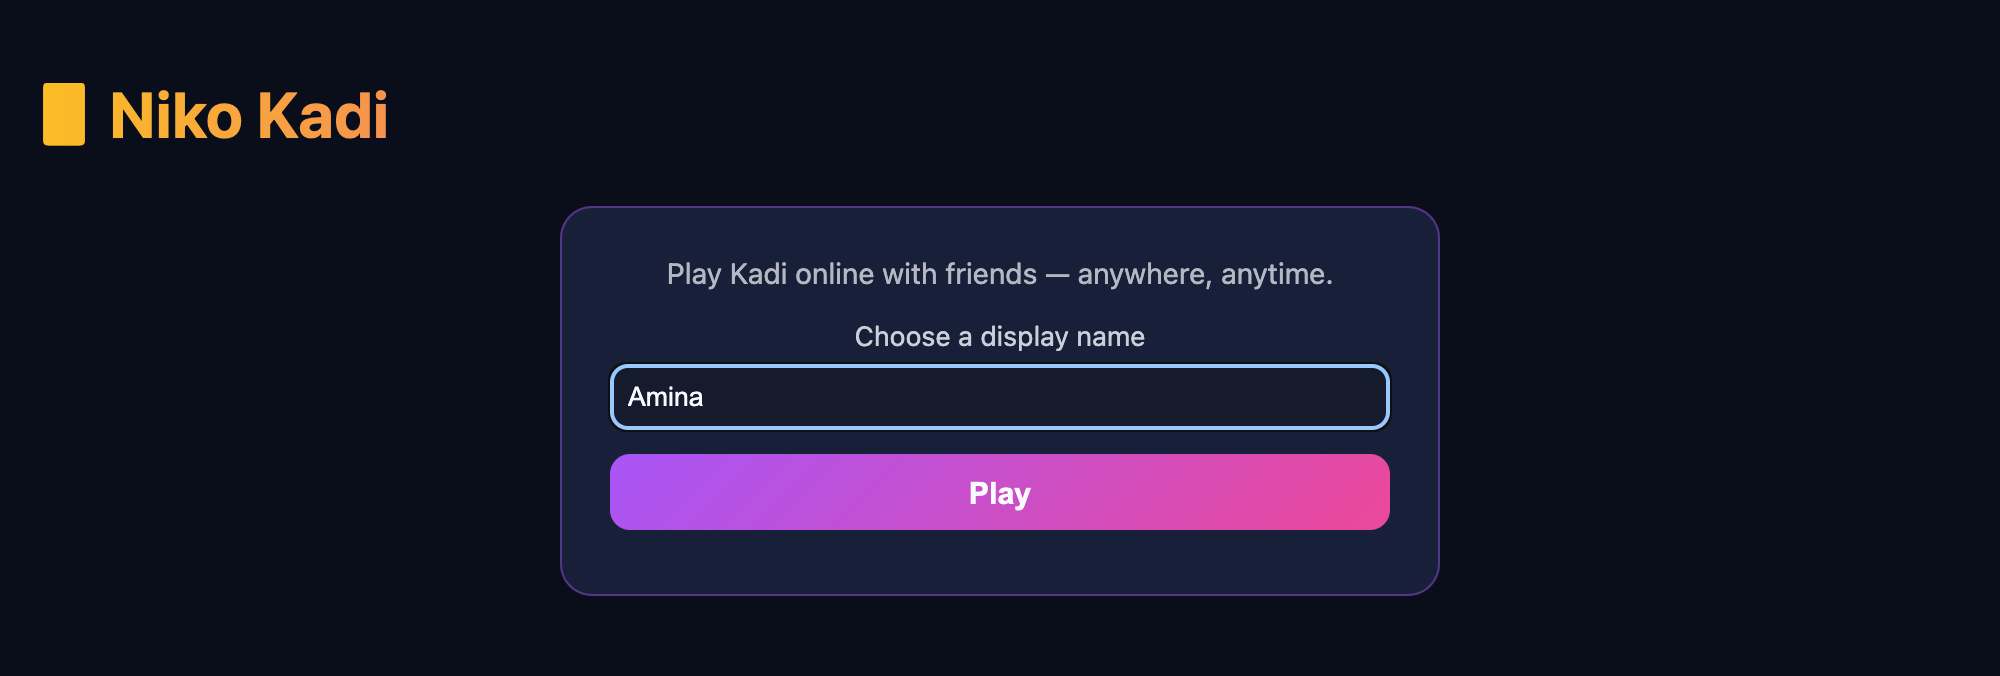
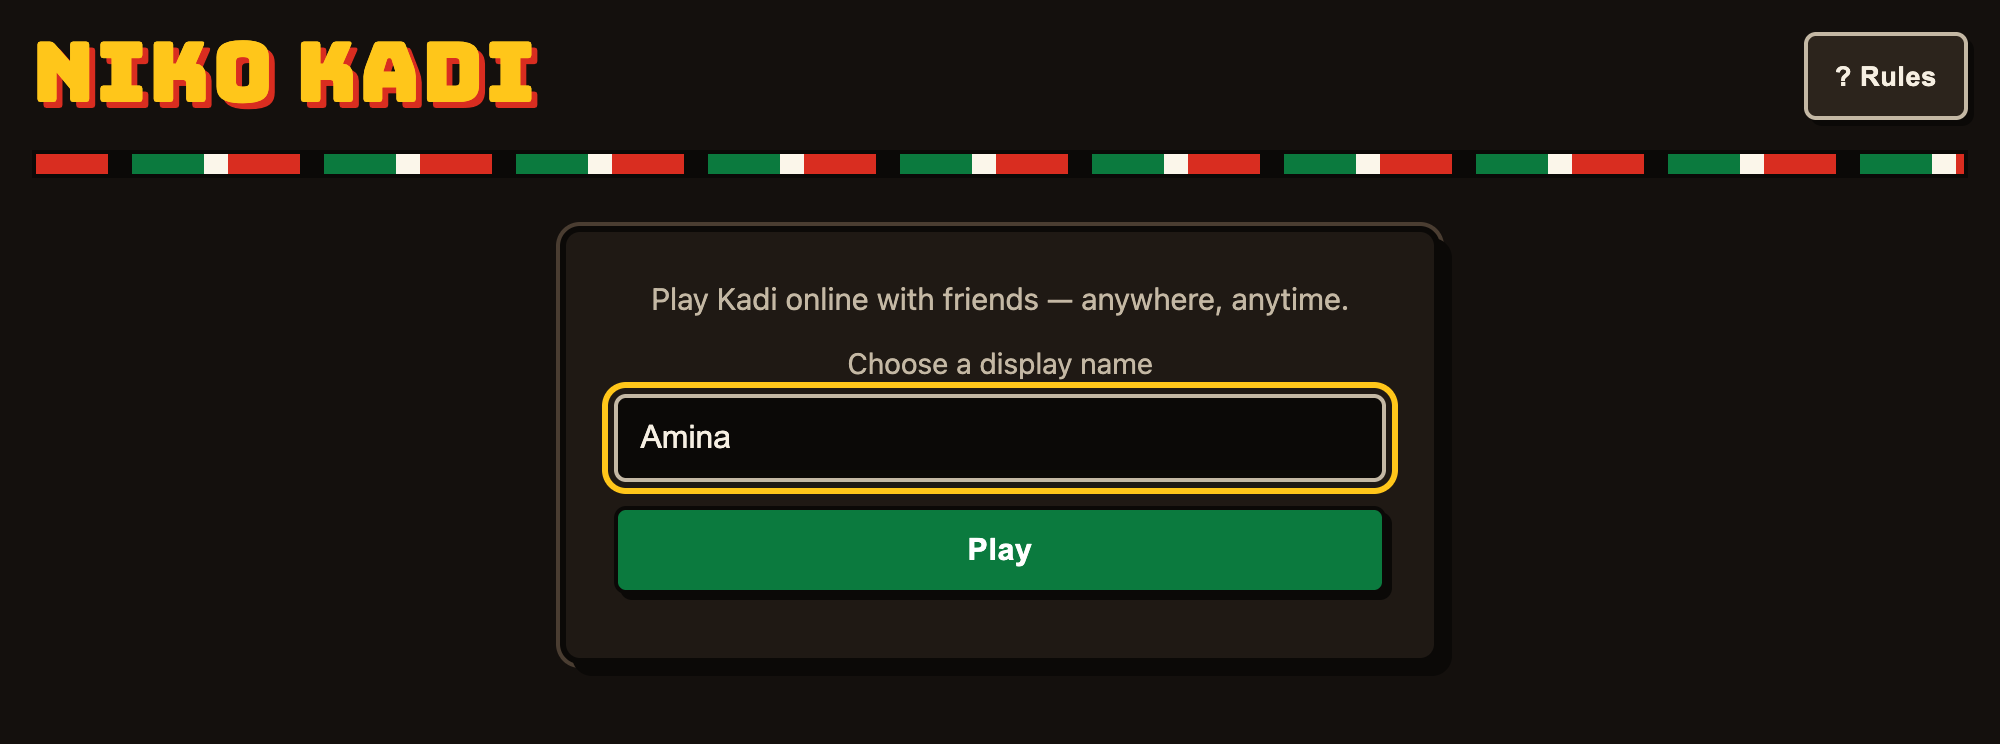
docs: refresh screenshots for the Kenyan theme, add mobile view

diff --git a/README.md b/README.md
@@ -12,7 +12,7 @@ An online multiplayer version of Kadi — play with friends from anywhere.
 
 1. Visit the [live site](https://bethanyjep.github.io/NikoKadi/) (hosted on GitHub Pages)
 2. Enter a display name — no sign-up needed (anonymous auth)
-3. **Create a room** to get a 6-character room code, or **join** with a friend's code
+3. **Create a room** to get a 6-character room code, then copy it or share it on WhatsApp (the link pre-fills the code), or **join** with a friend's code
 4. Once 2+ players are in, the host starts the game (rooms hold up to 4 players)
 5. Take turns playing cards — the game syncs in real time via Supabase
 
@@ -22,18 +22,26 @@ An online multiplayer version of Kadi — play with friends from anywhere.
 |:---:|:---:|
 | ![Enter a display name](docs/screenshots/01-join.png) | ![Game lobby with create and join options](docs/screenshots/02-lobby.png) |
 
-| 3. Wait for friends, then start | 4. Play |
+| 3. Share the code, then start | 4. Play |
 |:---:|:---:|
-| ![Room with code and player list](docs/screenshots/03-room.png) | ![Game board](docs/screenshots/04-game-board.png) |
+| ![Room with code, share buttons and player list](docs/screenshots/03-room.png) | ![Game board](docs/screenshots/04-game-board.png) |
+
+The game is built for phones — every opponent stays on screen and your hand sits above its action buttons:
+
+<p align="center">
+  <img src="docs/screenshots/05-mobile-game.png" alt="Niko Kadi on a phone" width="320" />
+</p>
 
 ### The game screen
 
-- **Table centre:** the top card of the discard pile, the draw pile (with its card count), whose turn it is and the play direction (↻ / ↺), any pending penalty, any required suit, and the latest game message.
+- **Status strip:** one bar above the table that always states what's going on — whose turn it is (or "Answer the Q♠"), any pending **penalty**, any requested **suit**, and the play direction (↻ / ↺).
+- **Table centre:** the top card of the discard pile, the draw pile (with its card count), and the latest game message.
+- **? Rules:** a quick cheat sheet is always one tap away in the top-right corner.
 - **Opponents:** shown with face-down cards, their card count, score, and a **TURN** badge for whoever is up. You are always at the bottom.
 - **Your hand:** click one or more cards to select them (they lift and highlight), then use the buttons beside your hand:
   - **▶ Play Cards** — play the selected card(s)
   - **🃏 Draw / Penalty** — draw one card, or take the stacked penalty if one is pending
-  - **Ace suit** — pick the suit to request when you play an Ace
+  - **Ace suit** — appears when an Ace is selected, to pick the suit to request
   - **📢 Niko Kadi** — declare when you have 2 or fewer cards left
   - **✓ Submit Answer** — answer a Question card (see below)
 - **Next Round** appears when someone wins; scores carry over between rounds.
